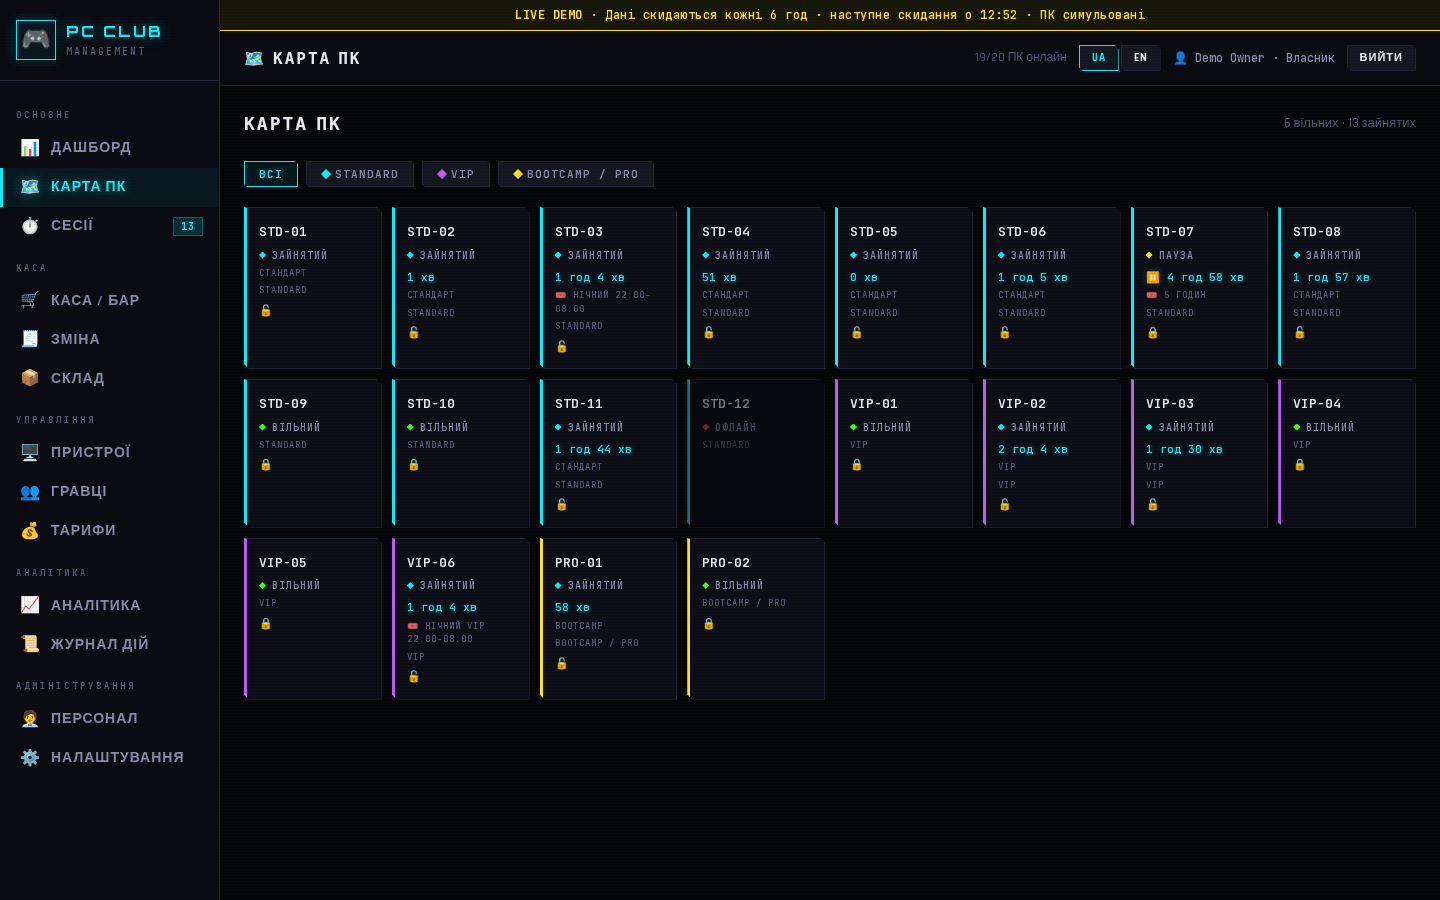
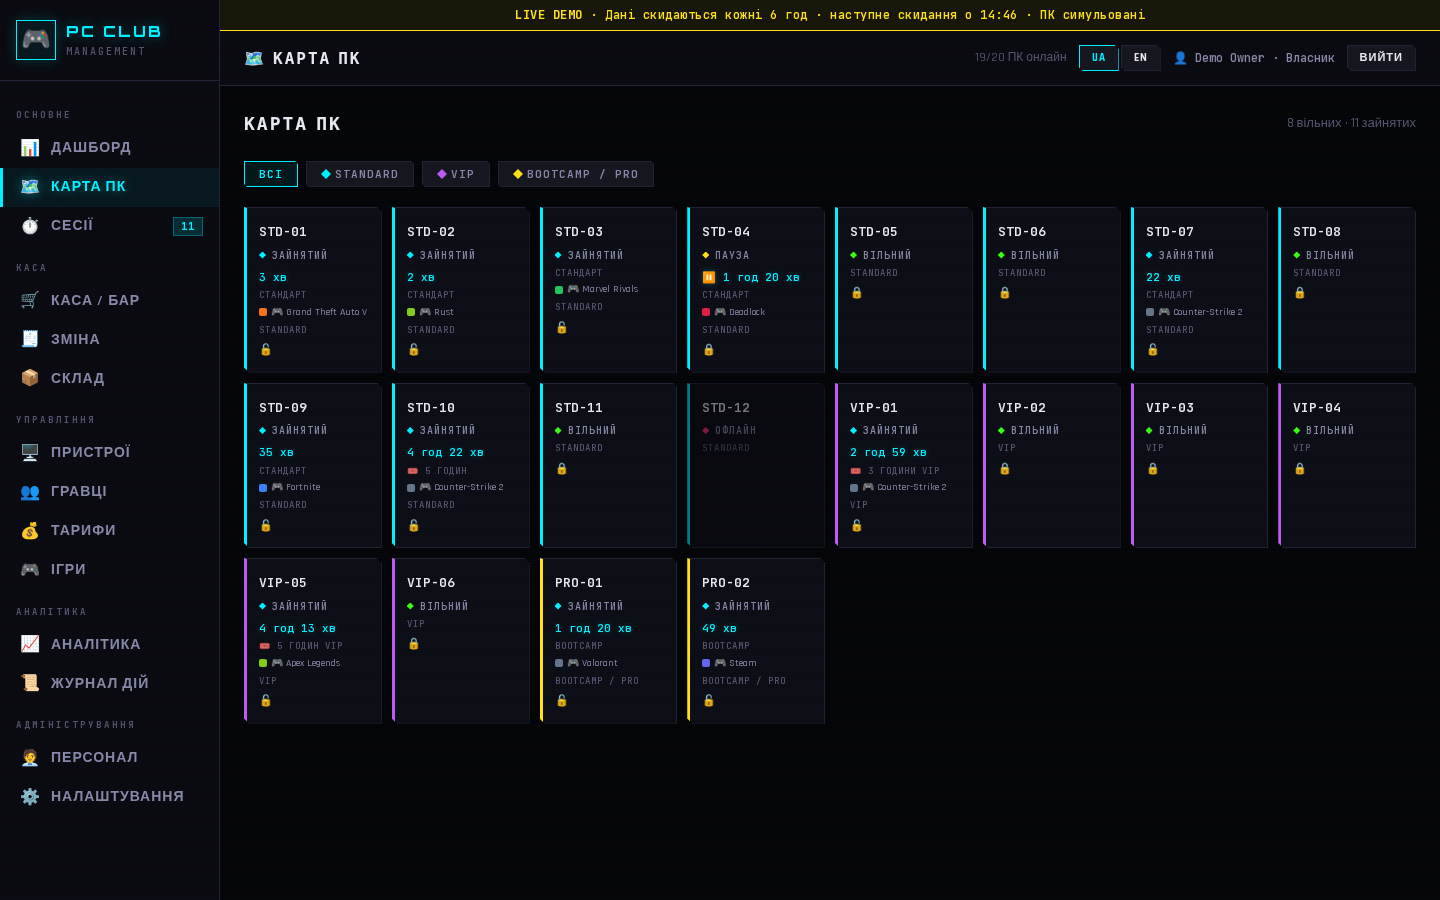
docs: screenshots of the game catalog and the PC map with games
From the demo (headless Chromium): the game catalog tab with its
generated tiles, and the PC map, which now shows the game of each busy
PC. Game names only; no logos or other art.

Claude-Session: https://claude.ai/code/session_01T44nGXXfb2jTe7P4hBLX7e

diff --git a/README.md b/README.md
@@ -38,9 +38,11 @@ The images below come from demo mode (30 days of simulated history; Ukrainian in
 | ![Owner analytics, 30 days](docs/screenshots/analytics-uk.png) | ![Owner analytics in English](docs/screenshots/analytics-en.png) |
 | **Owner analytics**: revenue by day (PC time and bar), payment methods, occupancy by zone, heatmap weekday × hour, cash variance of the shifts, check against the ledger and the Z-reports | **The same in English** (UA / EN switch in the top bar) |
 | ![PC map](docs/screenshots/pc-map.png) | ![Bar checkout](docs/screenshots/bar-checkout.png) |
-| **PC map**: the PCs by zone, free / busy / paused / offline, time left, packages | **Bar checkout**: product tiles with stock, receipt, cash / card / player balance |
+| **PC map**: the PCs by zone, free / busy / paused / offline, time left, packages, the game each busy PC plays | **Bar checkout**: product tiles with stock, receipt, cash / card / player balance |
 | ![Z-report of a shift](docs/screenshots/z-report.png) | ![Analytics on a phone](docs/screenshots/analytics-phone.png) |
 | **Z-report** of a closed shift: variance, reconciled with the ledger, audit anchor | **Analytics on a phone** (390 px wide) |
+| ![Game catalog](docs/screenshots/games.png) | |
+| **Game catalog**: what the lock screens start (Steam AppID, a program, a launcher link), per zone, generated tiles (no logos) | |
 
 ![Dashboard (demo mode)](docs/screenshots/dashboard.png)
 
